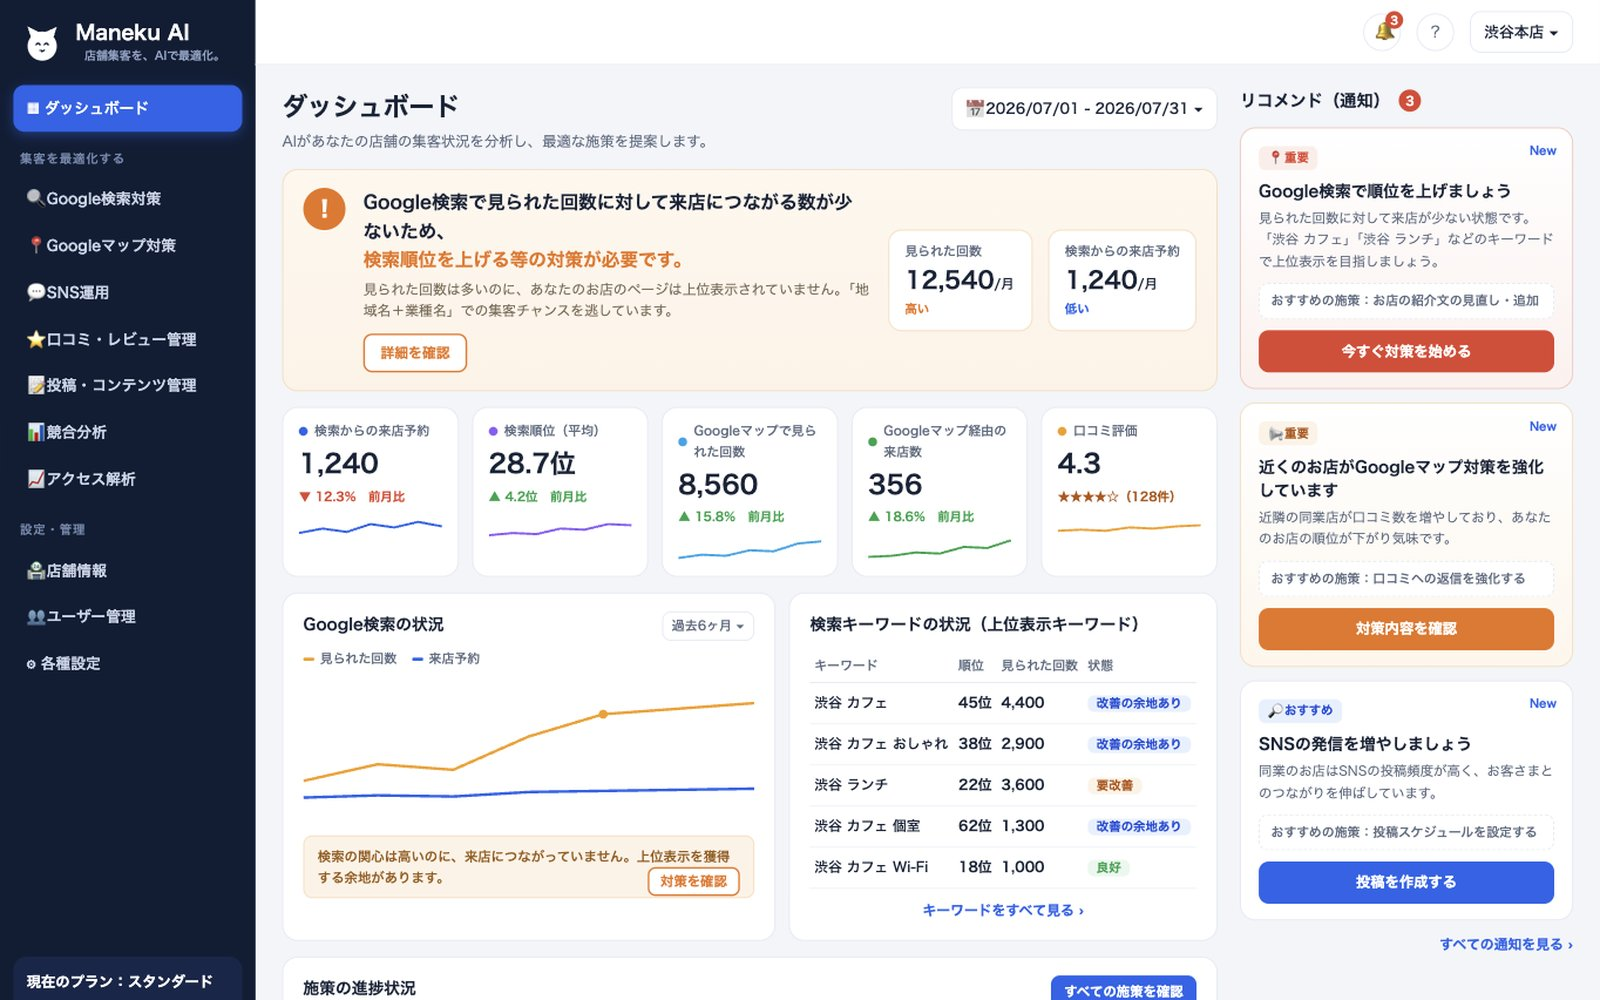
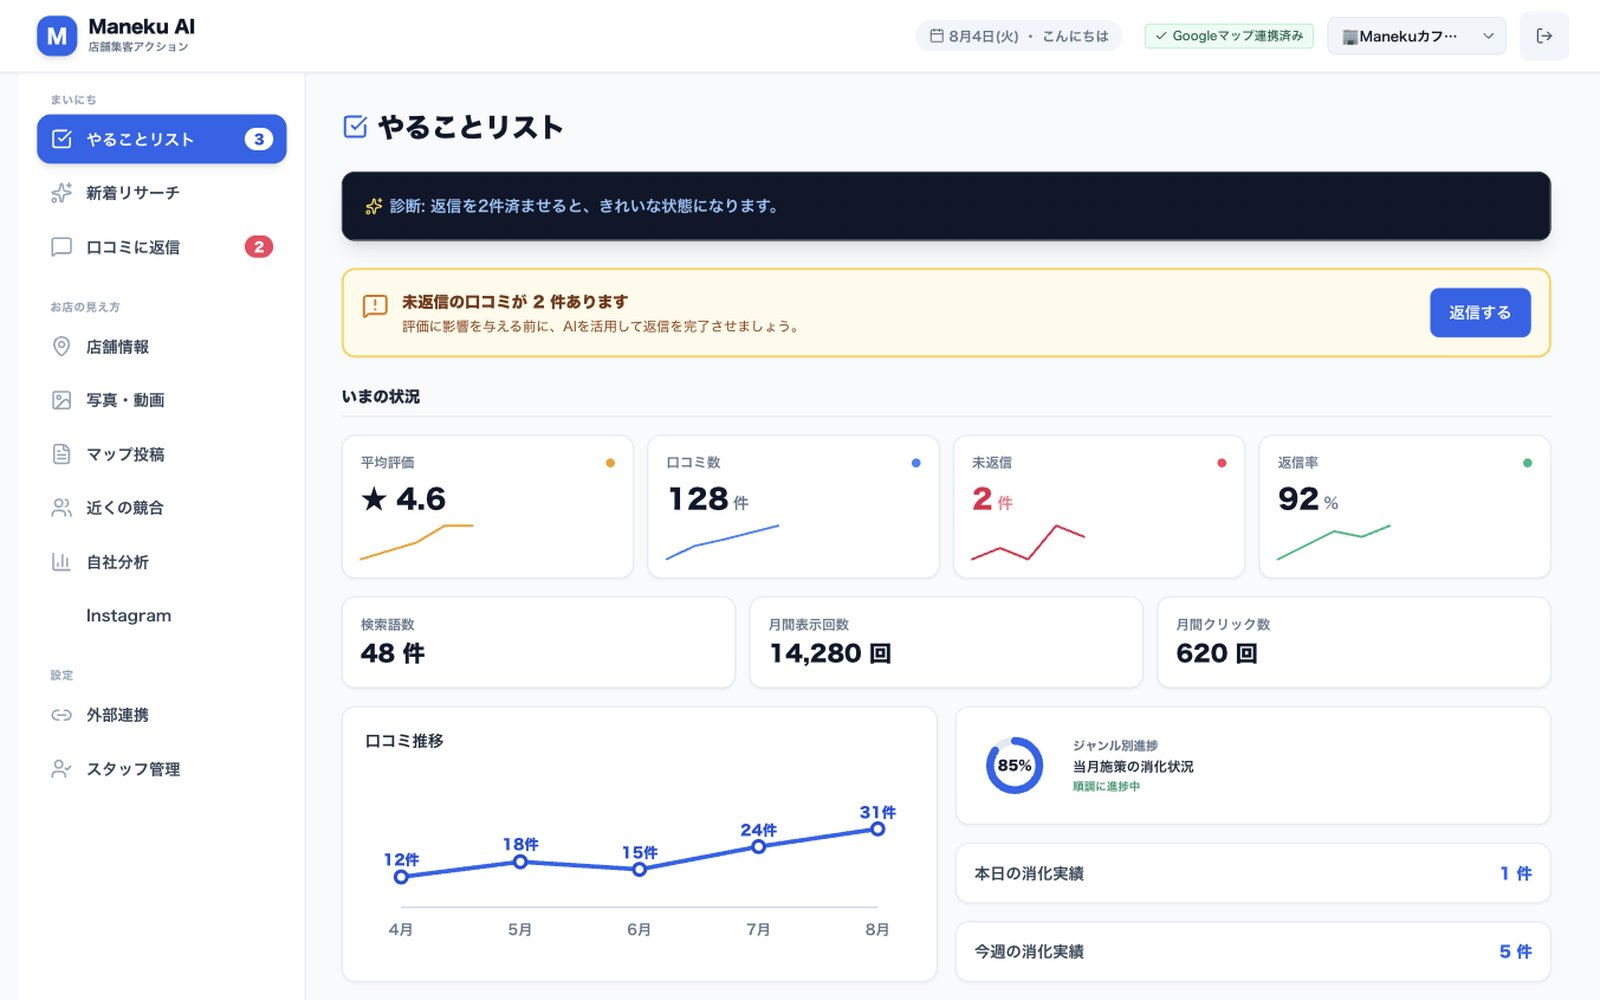
feat(products): Manekuの冒頭画像をGeminiで作ったモック（pattern A v2）に差し替え
Claude-Session: https://claude.ai/code/session_01CVisEETYMRivNUMohQzgAJ

diff --git a/app/products/_content/maneku-ai.html b/app/products/_content/maneku-ai.html
@@ -11,8 +11,8 @@
       <!--TAGS-->
       </div>
       <div class="hero-visual">
-        <div class="hv-browser"><div class="bar"><i></i><i></i><i></i></div><img src="/products/img/maneku-dashboard.jpg" width="1600" height="1000" fetchpriority="high" alt="Maneku AIのダッシュボード。検索からの来店予約や口コミ評価の数字と、AIのリコメンドが並ぶ"></div>
-        <div class="hv-phone"><img src="/products/img/maneku-m-dashboard.jpg" width="780" height="1688" alt="ダッシュボードをスマホで見た画面"></div>
+        <div class="hv-browser"><div class="bar"><i></i><i></i><i></i></div><img src="/products/img/maneku-dashboard.jpg" width="1600" height="1000" fetchpriority="high" alt="Maneku AIのやることリスト。口コミの評価や返信率などの数字と、口コミの推移が並ぶ"></div>
+        <div class="hv-phone"><img src="/products/img/maneku-m-dashboard.jpg" width="780" height="1688" alt="やることリストをスマホで見た画面"></div>
       </div>
       </div>
     </div>
@@ -110,7 +110,7 @@
             <div class="browser"><div class="bar"><i></i><i></i><i></i></div><img src="/products/img/maneku-insights.jpg" width="1600" height="1000" loading="lazy" alt="新着リサーチの画面。分類ごとの絞り込みと、店舗への影響を書いたカード"></div>
           </div>
         </div>
-        <p class="screens-note">※ 冒頭のダッシュボードはデザインのイメージです。画面はデモ用です。掲載している店舗名・人名・口コミはすべて架空です。Googleマップ・Google検索との連携は準備中です。</p>
+        <p class="screens-note">※ 冒頭の画面はデザインのイメージです。画面はデモ用です。掲載している店舗名・人名・口コミはすべて架空です。Googleマップ・Google検索との連携は準備中です。</p>
       </div>
     </div>
   </section>
